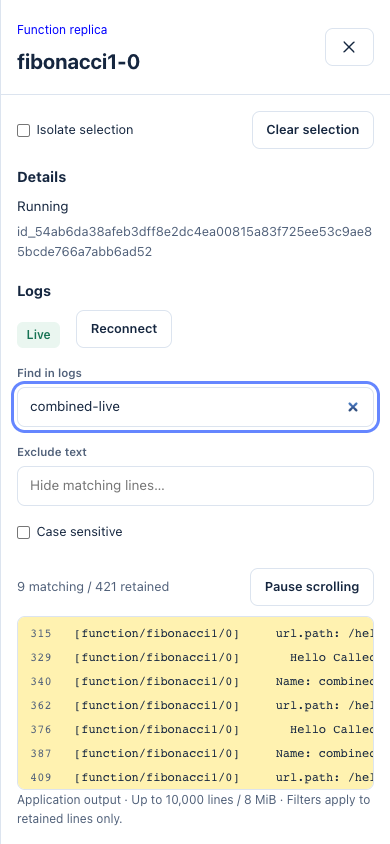
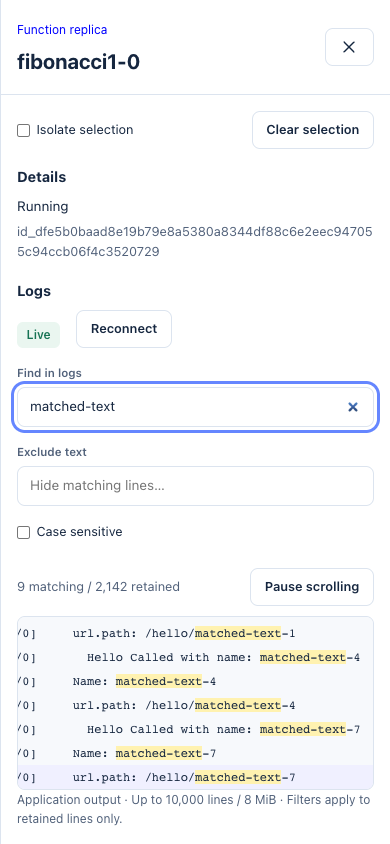
fix: highlight only matching text in live logs

Changed region(s): [[0.0308, 0.6777, 0.9538, 0.955], [0.0615, 0.2464, 0.9538, 0.3081], [0.0923, 0.4621, 0.3077, 0.4929]]

diff --git a/src/SlimFaas/ClientApp/src/components/InstanceLogs.tsx b/src/SlimFaas/ClientApp/src/components/InstanceLogs.tsx
@@ -1,6 +1,6 @@
 import { useLayoutEffect, useMemo, useRef, useState } from 'react';
 import { useLogStream } from '../hooks/useLogStream';
-import { filterLogs, logWindow, LOG_ROW_HEIGHT, type LogLine, type LogTarget } from '../lib/logs.ts';
+import { filterLogs, highlightLogText, logWindow, LOG_ROW_HEIGHT, type LogLine, type LogTarget } from '../lib/logs.ts';
 
 export default function InstanceLogs({ target, fill = false }: { target: LogTarget; fill?: boolean }) {
   const stream = useLogStream(target);
@@ -77,9 +77,10 @@ export function LogViewer({ lines, status = 'Live', discarded = 0, fill = false 
       {filtered.length ? <>
         <svg className="log-view__spacer" width="1" height={window.before} aria-hidden="true" />
         <ol className="log-view__lines" start={window.start + 1}>
-          {filtered.slice(window.start, window.end).map((line, index) => <li className={`log-view__line${include ? ' log-view__line--match' : ''}`} key={line.Id} aria-posinset={window.start + index + 1} aria-setsize={filtered.length}>
+          {filtered.slice(window.start, window.end).map((line, index) => <li className="log-view__line" key={line.Id} aria-posinset={window.start + index + 1} aria-setsize={filtered.length}>
             <span className="log-view__number">{line.Id}</span><time className="log-view__time">{line.TimestampMs == null ? '—' : new Date(line.TimestampMs).toLocaleTimeString()}</time>
-            <span className="log-view__text">{line.Text}</span>{line.Truncated && <span className="log-view__truncated"> [line truncated]</span>}
+            <span className="log-view__text">{highlightLogText(line.Text, include, sensitive).map((part, partIndex) => part.match
+              ? <mark className="log-view__match" key={partIndex}>{part.text}</mark> : part.text)}</span>{line.Truncated && <span className="log-view__truncated"> [line truncated]</span>}
           </li>)}
         </ol>
         <svg className="log-view__spacer" width="1" height={window.after} aria-hidden="true" />

diff --git a/src/SlimFaas/ClientApp/src/lib/logs.ts b/src/SlimFaas/ClientApp/src/lib/logs.ts
@@ -53,6 +53,40 @@ export function filterLogs(lines: LogLine[], include: string, exclude: string, s
   });
 }
 
+export interface LogTextPart { text: string; match: boolean }
+
+/** Split only rendered lines, using the same literal, case-sensitive rules as the filter. */
+export function highlightLogText(text: string, include: string, sensitive: boolean): LogTextPart[] {
+  const term = sensitive ? include : include.toLowerCase();
+  const searchable = sensitive ? text : text.toLowerCase();
+  if (!term || !searchable.includes(term)) return [{ text, match: false }];
+
+  // Lowercasing can expand characters (İ → i + combining dot). Map folded offsets
+  // back to the original text so highlights never shift or change copied output.
+  let starts: number[] | undefined, ends: number[] | undefined;
+  if (searchable.length !== text.length) {
+    starts = []; ends = [];
+    let offset = 0;
+    for (const character of text) {
+      const width = character.toLowerCase().length;
+      for (let i = 0; i < width; i++) { starts.push(offset); ends.push(offset + character.length); }
+      offset += character.length;
+    }
+  }
+  const parts: LogTextPart[] = [];
+  let cursor = 0;
+  for (let index = searchable.indexOf(term); index >= 0; index = searchable.indexOf(term, index + term.length)) {
+    const start = Math.max(cursor, starts ? starts[index] : index);
+    const end = ends ? ends[index + term.length - 1] : index + term.length;
+    if (end <= cursor) continue;
+    if (start > cursor) parts.push({ text: text.slice(cursor, start), match: false });
+    parts.push({ text: text.slice(start, end), match: true });
+    cursor = end;
+  }
+  if (cursor < text.length) parts.push({ text: text.slice(cursor), match: false });
+  return parts;
+}
+
 export const LOG_ROW_HEIGHT = 24;
 export function logWindow(length: number, scrollTop: number, viewportHeight = 360) {
   const visible = Math.max(1, Math.ceil(viewportHeight / LOG_ROW_HEIGHT));

diff --git a/src/SlimFaas/ClientApp/src/styles/_instance-logs.scss b/src/SlimFaas/ClientApp/src/styles/_instance-logs.scss
@@ -11,7 +11,7 @@
   &__lines { list-style: none; padding: 0; margin: 0; min-width: max-content; }
   &__line { height: 24px; white-space: pre; padding: 0 .75rem; }
   &__line:hover { background: var(--soft); }
-  &__line--match, &__line--match:hover { background: #fff2b0; color: var(--ink); }
+  &__match { background: #fff2b0; color: var(--ink); padding: 0; font: inherit; }
   &__number { display: inline-block; min-width: 5ch; margin-right: 1rem; color: var(--muted); user-select: none; }
   &__time { display: inline-block; min-width: 11ch; margin-right: 1rem; color: var(--muted); }
   &__spacer { display: block; }

diff --git a/src/SlimFaas/ClientApp/src/stories/TrafficDetails.stories.tsx b/src/SlimFaas/ClientApp/src/stories/TrafficDetails.stories.tsx
@@ -51,6 +51,8 @@ export const HighlightedSearch: StoryObj = {
     const canvas = within(canvasElement);
     await userEvent.click(canvas.getByRole('button', { name: 'Open replica details' }));
     await userEvent.type(canvas.getByRole('searchbox', { name: 'Find in logs' }), 'Warning');
-    await expect(canvas.getAllByRole('listitem')[0]).toHaveClass('log-view__line--match');
+    const row = canvas.getAllByRole('listitem')[0];
+    await expect(row.querySelector('mark')).toHaveTextContent('Warning');
+    await expect(row).not.toHaveClass('log-view__line--match');
   },
 };

diff --git a/docs/dashboard-validation.md b/docs/dashboard-validation.md
@@ -255,9 +255,16 @@ The updated production load harness passed a **15.01-second screening** with 20,
 
 The combined drawer follow-up passed **1,276 .NET tests**, **33 dashboard Node tests**, **8 documentation tests**, dashboard/Storybook/site builds, and all five drawer Storybook scenarios in Chromium. No backend contracts, configuration defaults, dependencies or retention limits changed.
 
-The production browser regression exercises a 10,000-line stream, source/container changes, automatic opening for all three instance kinds, cancelled discovery and reconnects, and compact disabled/access-denied/unavailable states with no unauthorized stream request or retry loop. It ends with **zero active streams and zero browser errors**. Search checks cover entire-row yellow backgrounds including hover, new matching output, empty queries, case sensitivity, exclusions, literal punctuation, Unicode and escaped markup. Desktop resizing and the 390 px mobile drawer retain bounded virtualization; the footer stays below the viewport even when controls need more vertical space. An explicit browser assertion limits the viewer height to the window height, preventing virtual spacer rows from inflating the drawer to the full 10,000-line height.
+The production browser regression exercises a 10,000-line stream, source/container changes, automatic opening for all three instance kinds, cancelled discovery and reconnects, and compact disabled/access-denied/unavailable states with no unauthorized stream request or retry loop. It ends with **zero active streams and zero browser errors**. Search checks now cover yellow backgrounds on matching text only, including hover, new matching output, empty queries, case sensitivity, exclusions, literal punctuation, Unicode and escaped markup. The rest of the row keeps its usual background. Desktop resizing and the 390 px mobile drawer retain bounded virtualization; the footer stays below the viewport even when controls need more vertical space. An explicit browser assertion limits the viewer height to the window height, preventing virtual spacer rows from inflating the drawer to the full 10,000-line height.
 
 The native three-node demo returned **HTTP 200** for status on the entrypoint and each node, and for Fibonacci. Browser checks confirmed that opening the drawer directly streams actual replica output beside its details, newly emitted request markers are filtered and highlighted, selecting another replica opens a fresh stream, and Escape closes the viewer. The desktop and mobile instance-log screenshots show this combined view. The prior five-minute traffic measurements above were not repeated for this presentation change.
 
 
 Windows CI exposed a temporary-directory lock after the process-tree test had already verified termination. Async process fixtures now retry only the final directory removal within the existing bounded wait; process-exit assertions are unchanged. The Sonar workflow preserves the coverage/test command's exit code so a successful scanner cannot mask failed tests. The raw Windows results are checked separately from the scanner badge during delivery.
+
+
+### Highlight searched text only
+
+The search follow-up passed **35 dashboard Node tests**, **1,276 .NET tests**, all five drawer Storybook browser scenarios, and the production drawer regression. Highlights use escaped React text inside inline `mark` elements only on virtualized rows. Tests cover multiple and adjacent occurrences, case-sensitive matching, unchanged surrounding text, Unicode lowercase expansions and literal markup. Browser checks confirm that new matches appear, numbers/timestamps and other text remain unhighlighted, and selecting/copying the rendered text exactly reproduces the original line.
+
+The native three-node demo returned status and Fibonacci successfully and streamed actual replica logs with highlighted request markers. Desktop and mobile screenshots show text matches, with the mobile log viewport scrolled horizontally to expose long message text. Stream lifecycle, filtering, Follow latest and viewport bounds remain covered by the existing regression. Backend contracts, dependencies and storage limits are unchanged.

diff --git a/docs/user-interface.md b/docs/user-interface.md
@@ -132,7 +132,7 @@ A queued delivery produces correlated `dequeue` and `request_out` records. Both 
 
 ### Instance logs
 
-Select a function replica, job execution or SlimFaas node on the map or in the actor list. Its drawer shows compact **Details** above **Logs**, which automatically loads retained output and follows new lines when log access is enabled. Use **Find in logs**, **Exclude text** and **Case sensitive** to filter the retained buffer. A non-empty **Find in logs** search highlights the entire matching line in yellow, including newly received matches. Only matching lines are shown; clearing the search removes the highlight. Search text is literal, including punctuation and Unicode. Select a container when a Kubernetes pod has more than one. Scroll upward or use **Pause scrolling** to inspect output; **Follow latest** returns to the latest lines. Reception continues while scrolling is paused.
+Select a function replica, job execution or SlimFaas node on the map or in the actor list. Its drawer shows compact **Details** above **Logs**, which automatically loads retained output and follows new lines when log access is enabled. Use **Find in logs**, **Exclude text** and **Case sensitive** to filter the retained buffer. A non-empty **Find in logs** search highlights each occurrence of the searched text in yellow, including newly received matches. The surrounding text, line numbers and timestamps keep their usual background. Only matching lines are shown; clearing the search removes the highlight. Search text is literal, including punctuation and Unicode. Select a container when a Kubernetes pod has more than one. Scroll upward or use **Pause scrolling** to inspect output; **Follow latest** returns to the latest lines. Reception continues while scrolling is paused.
 
 Selection opens the same right-hand drawer as Overview, with details and live output together for individual instances. The drawer is at most 760 px wide and fills the screen on mobile. The map continues to receive traffic behind the modal drawer; close it to interact with the map. Escape, the close button or a click on the backdrop closes the drawer and returns keyboard focus to its trigger. Closing keeps the selected actor and **Isolate selection** filter; use **Open details** to reopen it or **Clear selection** to return to global traffic.
 

diff --git a/docs/guided-tour.md b/docs/guided-tour.md
@@ -400,6 +400,6 @@ During the data exercises, switch to **Live Stream → Data** and search for you
 
 In **Live Stream → Traffic**, select `fibonacci1` and choose **Show replicas**. Send synchronous or asynchronous requests from the earlier exercises: arrival rings identify the replica selected by SlimFaas. Queued messages start from the queue when dispatched; the technical dequeue and outbound records share one animation. Publications still fan out to their individual recipients. These animations illustrate routing, not measured request latency.
 
-The green **Leader** badge identifies the Raft leader; another node receives it after a leader change is observed. Select a replica, retained job execution or SlimFaas node to see its details and live logs together. Filter text with **Find in logs** to highlight matching lines in yellow, or pause scrolling to inspect output. Log access is enabled explicitly in the demo configurations. Native nodes default to `cluster.nodeLogLevel: Error`, so an empty node log is expected when no errors occur; use `Information` in an overlay for a more verbose exercise.
+The green **Leader** badge identifies the Raft leader; another node receives it after a leader change is observed. Select a replica, retained job execution or SlimFaas node to see its details and live logs together. Filter text with **Find in logs** to highlight matching text in yellow, or pause scrolling to inspect output. Log access is enabled explicitly in the demo configurations. Native nodes default to `cluster.nodeLogLevel: Error`, so an empty node log is expected when no errors occur; use `Information` in an overlay for a more verbose exercise.
 
 `fibonacci2` can wake even when you call only `fibonacci1`: the default native manifest schedules **`fibonacci5` every two minutes** (`*/2 * * * *`), and this job depends on **both `fibonacci1` and `fibonacci2`**. Pending/running jobs keep their dependencies awake. The React demo also wakes `fibonacci2` when its optional `?planetsaver=true` mode is enabled; **Wake Up All Functions** wakes it too. The dependency from `fibonacci2` to `fibonacci1` does not imply the reverse direction. These scheduled and dependency scenarios remain enabled for the tutorial.

diff --git a/docs/native-local-mode.md b/docs/native-local-mode.md
@@ -489,7 +489,7 @@ development-mode scope.
 
 ## Stream managed instance logs in the dashboard
 
-Select a managed instance in **Live Stream → Traffic** to see its details and live logs together in the drawer. When log exposure is enabled, the viewer connects automatically; closing the drawer stops it. **Find in logs** filters the retained output and highlights matching lines in yellow.
+Select a managed instance in **Live Stream → Traffic** to see its details and live logs together in the drawer. When log exposure is enabled, the viewer connects automatically; closing the drawer stops it. **Find in logs** filters the retained output and highlights matching text in yellow.
 
 The supervisor captures output from managed functions, jobs and SlimFaas nodes in its log directory. The dashboard reads an authorized instance through the authenticated supervisor channel; it does not receive a filesystem path. IDE `debugUrl` processes and external WebSocket clients have no captured log source.
 
